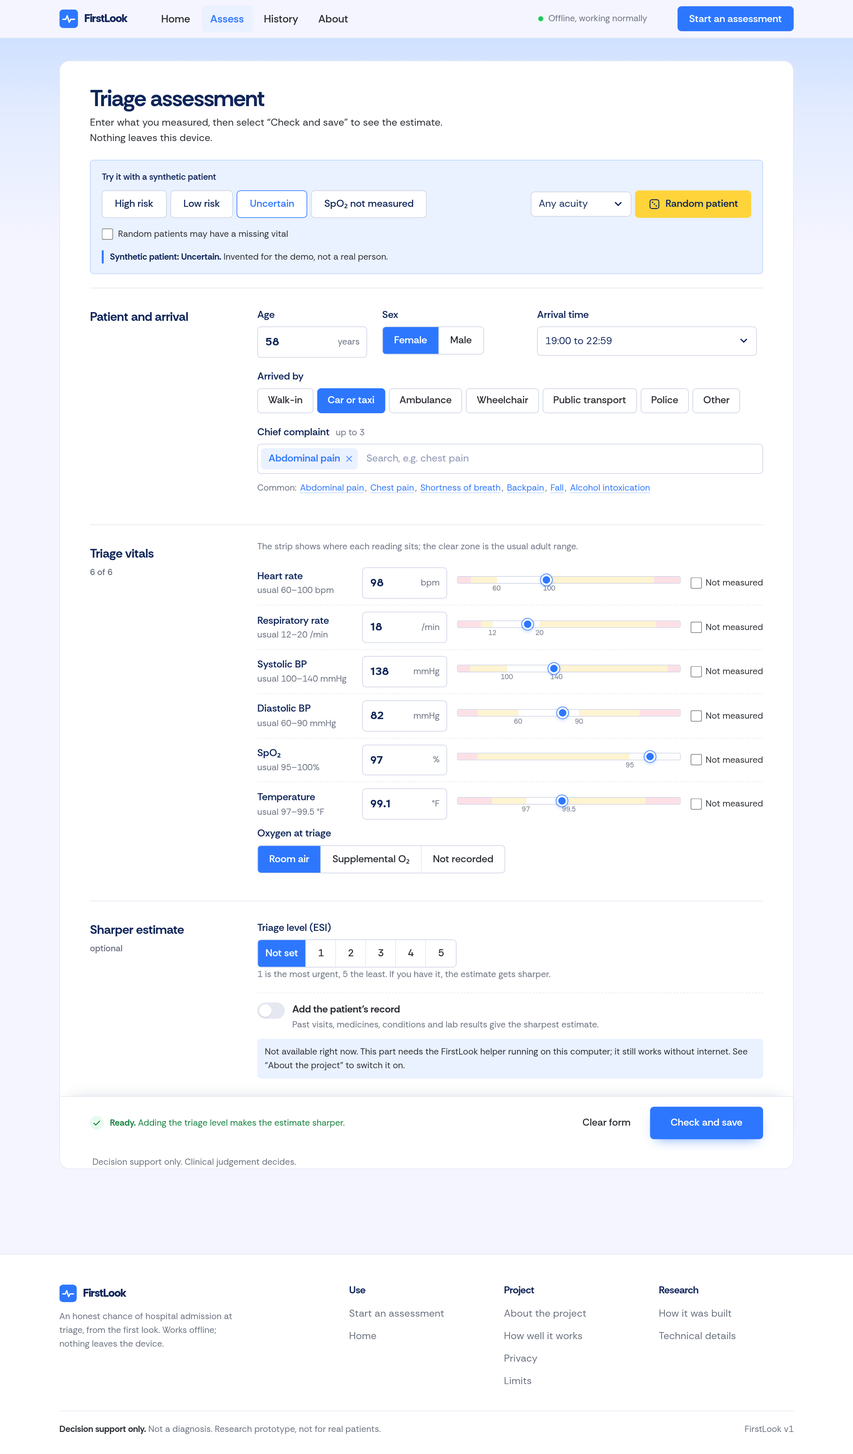
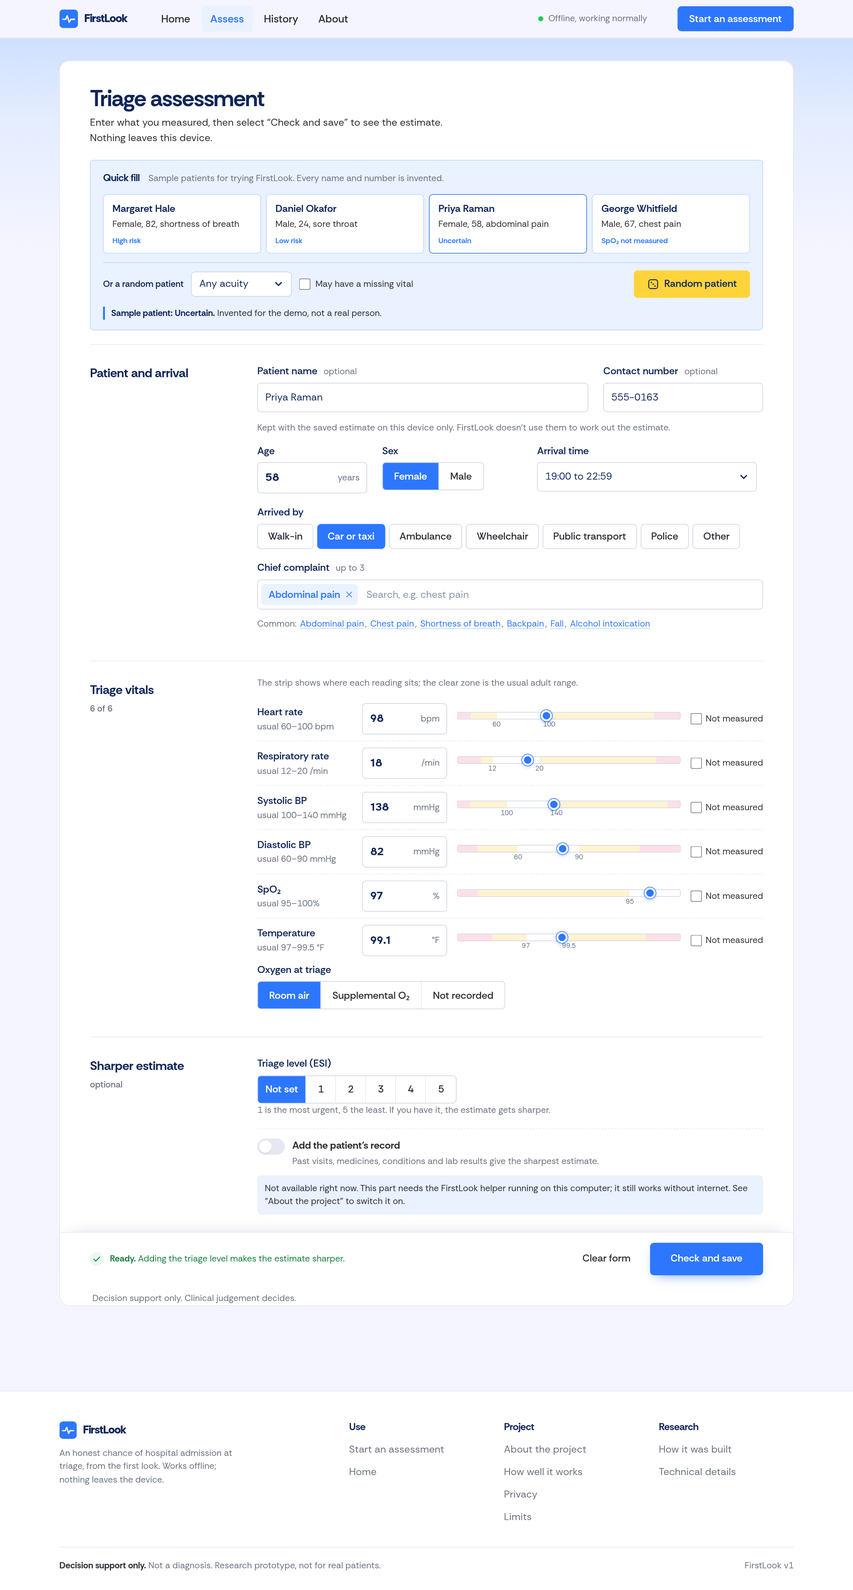
Patient name and contact; redesigned quick fill; readable complaint names
- Optional patient name and contact number (validated, never used by the
  model), shown on the result page, searchable in History and exported to CSV
  (formula-like text neutralised)
- Quick fill: sample patient cards with invented names; random patients get an
  invented name matching sex and a 555-01xx number
- 20 more complaint names made readable (shared runtime labels, re-exported)
- Tests for identity fields, CSV safety and random identities; figures updated

Claude-Session: https://claude.ai/code/session_01MqjK4GWpR6MpcbTz9AouDq

diff --git a/frontend/js/app.js b/frontend/js/app.js
@@ -132,7 +132,12 @@ const hPut = (list) => { try { localStorage.setItem(HKEY, JSON.stringify(list.sl
 const formSig = () => JSON.stringify(snapshot());
 const sig = () => JSON.stringify({ f: formSig(), note: $("hnote").value.trim() });
 function hBadge() { const n = hAll().length; $("hcount").textContent = n; $("hcount").hidden = !n; }
-function who(f) { return `${f.gender ?? "?"}, ${f.age ?? "?"}. ${f.complaints.map((c) => META.complaint_labels[c]).join(", ")}`; }
+function who(f, name = $("pname").value.trim()) { return `${name ? `${name}, ` : ""}${f.gender ?? "?"}, ${f.age ?? "?"}. ${f.complaints.map((c) => META.complaint_labels[c]).join(", ")}`; }
+/* Invented identities for the sample and random patients. 555-01xx numbers are reserved for fiction. */
+const SAMPLE_ID = { high: ["Margaret Hale", "555-0142"], low: ["Daniel Okafor", "555-0117"], uncertain: ["Priya Raman", "555-0163"], missing_spo2: ["George Whitfield", "555-0188"] };
+const FAKE_FIRST = { Female: ["Anna", "Rosa", "Leela", "Grace", "Nadia", "Helen", "Mei", "Sofia", "Joan", "Amara"], Male: ["Tom", "Arjun", "Samuel", "Luis", "Omar", "Peter", "Kenji", "Victor", "Hugo", "Ben"] };
+const FAKE_LAST = ["Carter", "Iyer", "Novak", "Mensah", "Lindqvist", "Moreau", "Tanaka", "Reyes", "Byrne", "Haddad", "Kowalski", "Fraser"];
+const fakeId = (seed, sex) => [`${FAKE_FIRST[sex ?? "Female"][seed % 10]} ${FAKE_LAST[Math.floor(seed / 10) % FAKE_LAST.length]}`, `555-01${String(seed % 100).padStart(2, "0")}`];
 function saveEstimate() {
   if (!last) return false;
   const s = sig(), list = hAll(), r = last.r;
@@ -144,7 +149,7 @@ function saveEstimate() {
     savedSig = s; saveState(); toast("Note saved."); return true;
   }
   const entry = { id: `${Date.now().toString(36)}${Math.random().toString(36).slice(2, 6)}`, at: Date.now(), p: r.probability, band: r.band, conformal: r.conformal,
-    slot: last.slot, note: $("hnote").value.trim(), who: who(last.f), age: last.f.age, sex: last.f.gender,
+    slot: last.slot, note: $("hnote").value.trim(), who: who(last.f), name: $("pname").value.trim(), phone: $("pphone").value.trim(), age: last.f.age, sex: last.f.gender,
     complaints: last.f.complaints.map((c) => META.complaint_labels[c]), top: r.contributions.slice(0, 3).map((d) => ({ label: d.label, up: d.value > 0 })), form: snapshot() };
   if (!hPut([entry, ...list])) { toast("Couldn’t save: this browser’s storage is full or switched off."); return false; }
   savedSig = s; savedId = entry.id; hBadge(); saveState(); toast("Saved to history.");
@@ -163,7 +168,7 @@ const dayLabel = (t) => { const d = new Date(t), today = new Date(); const k = (
 function renderHistory() {
   const all = hAll(), q = $("hist-q").value.trim().toLowerCase(), band = radio("hband") ?? "";
   const list = all.filter((e) => (!band || (band === "unsure" ? e.conformal === "uncertain" : e.band === band))
-    && (!q || `${e.who} ${e.note} ${e.age}`.toLowerCase().includes(q)));
+    && (!q || `${e.who} ${e.note} ${e.age} ${e.phone ?? ""}`.toLowerCase().includes(q)));
   $("hempty").hidden = all.length > 0; $("hist-tools").hidden = !all.length; $("hist-actions").hidden = !all.length;
   const n = (b) => all.filter((e) => e.band === b).length;
   $("hist-sum").textContent = all.length ? `${list.length === all.length ? all.length : `${list.length} of ${all.length}`} saved. ${n("High")} high, ${n("Medium")} medium, ${n("Low")} low.` : "";
@@ -174,7 +179,7 @@ function renderHistory() {
     html += `<li class="hitem" data-band="${esc(e.band)}">
       <div class="h-pct"><b class="num">${pct(e.p)}%</b><span>${esc(e.band)}</span></div>
       <div class="h-main"><p class="h-who">${esc(e.who)}</p>
-        <p class="h-meta"><time datetime="${new Date(e.at).toISOString()}">${new Date(e.at).toLocaleTimeString([], { hour: "2-digit", minute: "2-digit" })}</time><span class="${e.conformal === "uncertain" ? "unc" : ""}">${esc(vt)}</span><span>${esc(LEVEL[e.slot] ?? "")}</span></p>
+        <p class="h-meta"><time datetime="${new Date(e.at).toISOString()}">${new Date(e.at).toLocaleTimeString([], { hour: "2-digit", minute: "2-digit" })}</time>${e.phone ? `<span>${esc(e.phone)}</span>` : ""}<span class="${e.conformal === "uncertain" ? "unc" : ""}">${esc(vt)}</span><span>${esc(LEVEL[e.slot] ?? "")}</span></p>
         ${e.note ? `<p class="h-note">${esc(e.note)}</p>` : ""}
         ${e.top?.length ? `<p class="h-top">Moved most by ${e.top.map((t) => `${t.up ? "↑" : "↓"} ${esc(t.label)}`).join(", ")}</p>` : ""}</div>
       <div class="h-act"><button type="button" class="btn" data-open="${e.id}">Open</button><button type="button" class="btn quiet" data-del="${e.id}" aria-label="Delete the estimate for ${esc(e.who)}">Delete</button></div></li>`;
@@ -198,9 +203,11 @@ function historyUI() {
   });
   $("hist-clear").onclick = () => { const before = hAll(); hPut([]); hBadge(); renderHistory(); toast("History cleared.", () => { hPut(before); hBadge(); renderHistory(); }); };
   $("hist-csv").onclick = () => {
-    const cell = (v) => `"${String(v ?? "").replace(/"/g, '""')}"`;
-    const rows = [["saved_at", "note", "age", "sex", "complaints", "chance_percent", "risk", "confidence", "based_on"],
-      ...hAll().map((e) => [new Date(e.at).toISOString(), e.note, e.age, e.sex, e.complaints?.join("; "), pct(e.p), e.band, CONF[e.conformal]?.[1], LEVEL[e.slot]])];
+    const cell = (v) => { let s = String(v ?? ""); // a typed name like "=SUM(…)" must not run as a spreadsheet formula
+      if (/^[=@\t\r]/.test(s) || (/^[+-]/.test(s) && !/^[+-][\d\s().-]+$/.test(s))) s = `'${s}`;
+      return `"${s.replace(/"/g, '""')}"`; };
+    const rows = [["saved_at", "name", "contact", "note", "age", "sex", "complaints", "chance_percent", "risk", "confidence", "based_on"],
+      ...hAll().map((e) => [new Date(e.at).toISOString(), e.name, e.phone, e.note, e.age, e.sex, e.complaints?.join("; "), pct(e.p), e.band, CONF[e.conformal]?.[1], LEVEL[e.slot]])];
     const url = URL.createObjectURL(new Blob([rows.map((r) => r.map(cell).join(",")).join("\r\n")], { type: "text/csv" }));
     const a = document.createElement("a"); a.href = url; a.download = `firstlook-history-${new Date().toISOString().slice(0, 10)}.csv`; a.click();
     setTimeout(() => URL.revokeObjectURL(url), 1000); toast("Downloaded history as CSV.");
@@ -223,7 +230,10 @@ function build() {
   for (const [k] of VITAL) { $(k + "_nm").addEventListener("change", (e) => { setMissing(k, e.target.checked); touched.add(k); changed(true); }); strip(k); }
   const ex = $("examples");
   for (const [key, e] of Object.entries(META.examples)) {
-    const b = document.createElement("button"); b.type = "button"; b.className = "btn"; b.textContent = e.label; b.onclick = () => load(key); ex.appendChild(b);
+    const b = document.createElement("button"); b.type = "button"; b.className = "sample"; b.dataset.k = key; b.onclick = () => load(key);
+    const f = e.form, nm = SAMPLE_ID[key]?.[0] ?? e.label;
+    b.innerHTML = `<b>${esc(nm)}</b><span>${esc(f.gender)}, ${f.age}, ${esc(f.complaints.map((c) => META.complaint_labels[c]).join(", ").toLowerCase())}</span><i>${esc(e.label)}</i>`;
+    ex.appendChild(b);
   }
   $("cccommon").innerHTML = META.complaint_order.filter((c) => c !== "cc_other").slice(0, 6)
     .map((c) => `<button type="button" class="common" data-c="${c}">${esc(META.complaint_labels[c])}</button>`).join(", ");
@@ -232,7 +242,7 @@ function build() {
   const form = $("pform");
   form.addEventListener("input", (e) => { if (e.target.type === "number") strip(e.target.id); changed(false); });
   form.addEventListener("change", (e) => { if (e.target.type === "radio" || e.target.tagName === "SELECT") { touched.add(e.target.name); changed(true); } });
-  form.addEventListener("focusout", (e) => { if (e.target.type === "number") { touched.add(e.target.id); changed(true); } });
+  form.addEventListener("focusout", (e) => { if (e.target.type === "number" || e.target.type === "tel") { touched.add(e.target.id); changed(true); } });
   form.addEventListener("submit", (e) => { e.preventDefault(); check(); });
   $("usehist").addEventListener("change", () => { $("histbox").hidden = !$("usehist").checked; changed(true); });
   $("random").onclick = randomFill;
@@ -326,13 +336,14 @@ function chips() {
 /* ---------------------------------------------------------------- state */
 const histIds = () => (META.history ? [...META.history.fields.map((f) => hid(f.key)), ...(META.history.prev_dispo.length ? ["h_prevdispo"] : [])] : []);
 function snapshot() {
-  const v = { selected: [...selected], note: $("exnote").innerHTML, usehist: $("usehist").checked, age: $("age").value, hour: $("hour").value,
+  const v = { selected: [...selected], note: $("exnote").innerHTML, usehist: $("usehist").checked, pname: $("pname").value, pphone: $("pphone").value, age: $("age").value, hour: $("hour").value,
     gender: radio("gender"), arrival: radio("arrival"), esi: radio("esi"), o2dev: radio("o2dev") };
   for (const [k] of VITAL) { v[k] = $(k).value; v[k + "_nm"] = $(k + "_nm").checked; }
   for (const id of histIds()) v[id] = $(id).type === "checkbox" ? $(id).checked : $(id).value;
   return v;
 }
 function apply(v) {
+  $("pname").value = v.pname ?? ""; $("pphone").value = v.pphone ?? "";
   $("age").value = v.age ?? ""; if (v.hour) $("hour").value = v.hour;
   setRadio("gender", v.gender); setRadio("arrival", v.arrival ?? "Walk-in"); setRadio("esi", v.esi ?? ""); setRadio("o2dev", v.o2dev ?? "0");
   for (const [k] of VITAL) { setMissing(k, !!v[k + "_nm"]); if (!v[k + "_nm"]) $(k).value = v[k] ?? ""; strip(k); }
@@ -370,13 +381,15 @@ function fill(f) {
 }
 function load(key) {
   const e = META.examples[key];
-  withUndo(`Loaded “${e.label}”.`, () => { fill(e.form); note(`<b>Synthetic patient: ${esc(e.label)}.</b> Invented for the demo, not a real person.`); });
+  const [nm, ph] = SAMPLE_ID[key] ?? ["", ""];
+  withUndo(`Loaded ${nm || `“${e.label}”`}.`, () => { fill(e.form); $("pname").value = nm; $("pphone").value = ph; note(`<b>Sample patient: ${esc(e.label)}.</b> Invented for the demo, not a real person.`); });
 }
 function randomFill() {
   const seed = crypto.getRandomValues(new Uint32Array(1))[0] % 100000, esiOn = radio("esi") !== "";
   const { form, meta } = M.randomPatient(seed, $("acuity").value || null, $("rmiss").checked, META);
   withUndo("Loaded a random patient.", () => {
     fill(form); if (esiOn) setRadio("esi", meta.esi);
+    [$("pname").value, $("pphone").value] = fakeId(seed, form.gender);
     note(`<b>Random synthetic patient, ${meta.acuity} acuity</b> (seed ${seed}). Invented for the demo, not a real person.`);
   });
 }
@@ -406,7 +419,9 @@ function findings(f) {
     const v = f[h.key];
     if (h.kind === "count" && v !== null && (v < 0 || !Number.isInteger(v) || v > 500)) out.push({ field: hid(h.key), level: "error", msg: "Enter a whole number from 0 to 500." });
   }
-  const order = ["age", "gender", "complaints", ...VITAL.map((v) => v[0])];
+  const ph = $("pphone").value.trim();
+  if (ph && !/^\+?[\d\s()-]{6,20}$/.test(ph)) out.push({ field: "pphone", level: "error", msg: "Enter a phone number using digits, spaces, + or -." });
+  const order = ["pname", "pphone", "age", "gender", "complaints", ...VITAL.map((v) => v[0])];
   return out.sort((a, b) => (order.indexOf(a.field) + 1 || 99) - (order.indexOf(b.field) + 1 || 99));
 }
 const INPUT = { complaints: "ccsearch" };
@@ -414,7 +429,7 @@ const focusField = (field) => {
   const el = field === "gender" ? document.querySelector('input[name="gender"]') : $(INPUT[field] ?? field);
   el?.focus({ preventScroll: true }); el?.scrollIntoView({ block: "center", behavior: reduced ? "auto" : "smooth" });
 };
-const fieldName = (field) => ({ age: "Age", gender: "Sex", complaints: "Chief complaint" })[field] ?? VITAL.find((v) => v[0] === field)?.[1]
+const fieldName = (field) => ({ pname: "Patient name", pphone: "Contact number", age: "Age", gender: "Sex", complaints: "Chief complaint" })[field] ?? VITAL.find((v) => v[0] === field)?.[1]
   ?? META.history?.fields.find((h) => hid(h.key) === field)?.label ?? field;
 
 /** Inline messages: errors and warnings once a field is touched (and cleared the moment it is fixed); blanks only after "Check". */
@@ -524,7 +539,7 @@ function renderInputs() {
   const f = last.f, arr = document.querySelector('input[name="arrival"]:checked')?.parentElement.textContent.trim();
   const hour = $("hour").selectedOptions[0]?.textContent;
   $("res-who").textContent = `${who(f)}. ${arr ? `Arrived by ${arr.toLowerCase()}, ` : ""}${hour ?? ""}.`;
-  const rows = [["Age", `${f.age} years`], ["Sex", f.gender], ["Arrived by", arr], ["Arrival time", hour],
+  const rows = [["Name", $("pname").value.trim() || "Not given"], ["Contact", $("pphone").value.trim() || "Not given"], ["Age", `${f.age} years`], ["Sex", f.gender], ["Arrived by", arr], ["Arrival time", hour],
     ["Chief complaint", f.complaints.map((c) => META.complaint_labels[c]).join(", ")],
     ...VITAL.map(([k, name, unit]) => [name, $(k + "_nm").checked ? "Not measured" : `${$(k).value}${unit ? NB + unit : ""}`]),
     ["Triage level (ESI)", f.esi ? String(f.esi) : "Not set"], ["Patient record", $("usehist").checked && SERVER ? "Added" : "Not added"]];

diff --git a/frontend/index.html b/frontend/index.html
@@ -139,7 +139,7 @@
   </div>
   <div class="hist-tools" id="hist-tools">
     <label class="sr-only" for="hist-q">Search saved estimates</label>
-    <input id="hist-q" type="text" placeholder="Search by complaint, age or note">
+    <input id="hist-q" type="text" placeholder="Search by name, phone, complaint or note">
     <div class="seg small" id="hist-band" role="radiogroup" aria-label="Filter by risk">
       <label><input type="radio" name="hband" value="" checked>All</label><label><input type="radio" name="hband" value="High">High</label><label><input type="radio" name="hband" value="Medium">Medium</label><label><input type="radio" name="hband" value="Low">Low</label><label><input type="radio" name="hband" value="unsure">Unsure</label>
     </div>
@@ -162,22 +162,33 @@
       <p class="lede">Enter what you measured, then select “Check and save” to see the estimate. Nothing leaves this device.</p>
     </div>
 
-    <div class="quick" aria-labelledby="quick-l">
-      <p id="quick-l" class="quick-l">Try it with a synthetic patient</p>
-      <div class="quick-row">
-        <div class="btnset" id="examples"></div>
-        <div class="rand">
-          <label class="sr-only" for="acuity">Acuity of the random patient</label>
-          <select id="acuity" class="compact"><option value="">Any acuity</option><option value="low">Low acuity</option><option value="medium">Medium acuity</option><option value="high">High acuity</option></select>
-          <button type="button" class="btn sun" id="random"><svg class="ic" aria-hidden="true"><use href="#i-dice"/></svg>Random patient</button>
-        </div>
+    <section class="quick" aria-labelledby="quick-l">
+      <div class="quick-head">
+        <h2 id="quick-l" class="quick-l">Quick fill</h2>
+        <p class="hint">Sample patients for trying FirstLook. Every name and number is invented.</p>
       </div>
-      <label class="tick small"><input type="checkbox" id="rmiss">Random patients may have a missing vital</label>
+      <div class="samples" id="examples"></div>
+      <div class="rand-row">
+        <span class="rand-l">Or a random patient</span>
+        <label class="sr-only" for="acuity">Acuity of the random patient</label>
+        <select id="acuity" class="compact"><option value="">Any acuity</option><option value="low">Low acuity</option><option value="medium">Medium acuity</option><option value="high">High acuity</option></select>
+        <label class="tick small"><input type="checkbox" id="rmiss">May have a missing vital</label>
+        <button type="button" class="btn sun" id="random"><svg class="ic" aria-hidden="true"><use href="#i-dice"/></svg>Random patient</button>
+      </div>
       <p class="synthetic" id="exnote" hidden></p>
-    </div>
+    </section>
 
     <fieldset class="part">
       <legend>Patient and arrival</legend>
+      <div class="ident">
+        <div class="f"><label class="l" for="pname">Patient name <span class="opt">optional</span></label>
+          <input id="pname" name="pname" type="text" maxlength="60" autocomplete="off" spellcheck="false" aria-describedby="err-pname">
+          <p class="msg" id="err-pname" hidden></p></div>
+        <div class="f"><label class="l" for="pphone">Contact number <span class="opt">optional</span></label>
+          <input id="pphone" name="pphone" type="tel" inputmode="tel" maxlength="20" autocomplete="off" aria-describedby="pphone-help err-pphone">
+          <p class="msg" id="err-pphone" hidden></p></div>
+        <p class="hint ident-help" id="pphone-help">Kept with the saved estimate on this device only. FirstLook doesn’t use them to work out the estimate.</p>
+      </div>
       <div class="cols">
         <div class="f"><label class="l" for="age">Age</label>
           <div class="unit-in"><input id="age" name="age" type="number" inputmode="numeric" min="18" max="110" placeholder="54" aria-describedby="err-age"><span aria-hidden="true">years</span></div>

diff --git a/frontend/css/app.css b/frontend/css/app.css
@@ -78,7 +78,25 @@ main { outline: none; background: linear-gradient(180deg, var(--sky) 0, #e3ecff 
 .sheet-head h1 { font-size: var(--step-3); }
 .lede { color: var(--ink-2); margin-top: 6px; max-width: 60ch; }
 
-.quick { margin: 22px 0 6px; padding: 16px 18px; background: var(--brand-soft); border: 1px solid var(--brand-line); border-radius: var(--r-s); display: grid; gap: 10px; }
+.quick { margin: 22px 0 6px; padding: 18px 20px 16px; background: var(--brand-soft); border: 1px solid var(--brand-line); border-radius: var(--r-s); display: grid; gap: 14px; }
+.quick-head { display: flex; align-items: baseline; gap: 6px 14px; flex-wrap: wrap; }
+.quick-head .quick-l { font-size: var(--step-0); font-weight: 700; }
+.samples { display: grid; grid-template-columns: repeat(auto-fit, minmax(190px, 1fr)); gap: 8px; }
+@media (max-width: 640px) { .samples { grid-template-columns: 1fr 1fr; } .sample { padding: 8px 10px; } }
+.sample { display: grid; gap: 2px; text-align: left; padding: 10px 12px 10px 14px; background: var(--sheet); border: 1px solid var(--brand-line); border-radius: var(--r-s);
+  font: inherit; color: var(--ink); cursor: pointer; position: relative; transition: border-color .15s, box-shadow .15s; }
+.sample:hover { border-color: var(--brand); }
+.sample:focus-visible { outline: 2px solid var(--brand); outline-offset: 2px; }
+.sample b { font-weight: 650; }
+.sample span { font-size: var(--step--1); color: var(--ink-2); }
+.sample i { font-style: normal; font-size: 12px; font-weight: 650; color: var(--brand); margin-top: 4px; }
+.rand-row { display: flex; flex-wrap: wrap; align-items: center; gap: 8px 12px; padding-top: 12px; border-top: 1px solid var(--brand-line); }
+.rand-l { font-size: var(--step--1); font-weight: 600; color: var(--ink); }
+.rand-row .btn { margin-left: auto; }
+.ident { display: grid; grid-template-columns: minmax(0, 1fr) minmax(0, 16rem); gap: 0 24px; margin-bottom: 14px; }
+.ident input { width: 100%; }
+.ident-help { grid-column: 1 / -1; margin-top: -4px; }
+.opt { font-weight: 400; font-size: var(--step--1); color: var(--muted); margin-left: 6px; }
 .quick-l { color: var(--ink); font-weight: 600; font-size: var(--step--1); }
 .quick-row { display: flex; flex-wrap: wrap; gap: 8px 16px; align-items: center; justify-content: space-between; }
 .btnset, .rand { display: flex; flex-wrap: wrap; gap: 6px; align-items: center; }
@@ -99,7 +117,7 @@ main { outline: none; background: linear-gradient(180deg, var(--sky) 0, #e3ecff 
 .l .hint { margin-left: 6px; }
 
 /* inputs */
-input[type=number], input[type=text], select {
+input[type=number], input[type=text], input[type=tel], select {
   font: inherit; font-size: max(16px, 1rem); color: var(--ink); width: 100%; min-height: 46px;
   padding: 10px 12px; background: var(--sheet); border: 1.5px solid var(--rule-2); border-radius: var(--r-s);
   transition: border-color .15s, box-shadow .15s;
@@ -556,6 +574,8 @@ td .sw { display: inline-block; width: 10px; height: 10px; border-radius: 2px; m
   .meta { grid-template-columns: repeat(2, auto); }
   .pct b { font-size: 3.2rem; }
   .quick-row { flex-direction: column; align-items: stretch; }
+  .ident { grid-template-columns: minmax(0, 1fr); }
+  .rand-row .btn { margin-left: 0; width: 100%; }
 }
 @media (prefers-reduced-motion: reduce) { *, *::before, *::after { transition: none !important; animation: none !important; } }
 @media print { .top, .quick, .form-foot, .peek, .toast, .foot { display: none !important; } .workspace { grid-template-columns: 1fr 1fr; } .panel { position: static; } }

diff --git a/frontend/sw.js b/frontend/sw.js
@@ -1,6 +1,6 @@
 /* FirstLook service worker: cache-first for the app shell, everything local. Bump CACHE when assets change.
    api/ requests (the optional local backend) always go to the network and are never cached. */
-const CACHE = "firstlook-v24";
+const CACHE = "firstlook-v26";
 const ASSETS = ["./", "index.html", "css/app.css", "js/model.js", "js/charts.js", "js/app.js", "data/models.json", "data/dashboard.json",
   "manifest.webmanifest", "icon.svg",
   "fonts/atkinson-next-latin.woff2", "fonts/atkinson-next-latin-ext.woff2",

diff --git a/tests/test_pwa_ux.py b/tests/test_pwa_ux.py
@@ -110,7 +110,7 @@ def test_assess_and_result_are_separate_pages(page):
     assert pct(page) == 44 and page.inner_text("#conftitle").startswith("Unsure")
     assert "44% chance of admission" in page.title()
     assert page.get_attribute("nav a[data-p=assess]", "aria-current") == "page"
-    assert page.inner_text("#res-who").startswith("Female, 58. Abdominal pain")
+    assert page.inner_text("#res-who").startswith("Priya Raman, Female, 58. Abdominal pain")
     page.click("#res-edit"); page.wait_for_selector("#assess:not([hidden])")
     page.fill("#age", "90"); show(page)
     assert pct(page) != 44
@@ -316,3 +316,33 @@ def test_history_delete_clear_undo_csv_and_persistence(page):
     page.click("#hist-clear")
     assert items.count() == 0 and page.is_visible("#hempty") and page.is_hidden("#hcount")
     page.click("#undo"); assert items.count() == 2
+
+
+# ---------- patient name and contact ----------
+
+def test_name_and_contact_are_optional_validated_and_saved(page):
+    example(page, "High risk")  # sample patients come with an invented name and a 555-01xx number
+    assert page.input_value("#pname") == "Margaret Hale" and page.input_value("#pphone") == "555-0142"
+    page.fill("#pname", ""); page.fill("#pphone", "")
+    page.wait_for_selector("#needs[data-state=ready]")  # neither is required
+    page.fill("#pphone", "call me"); page.focus("#age")
+    assert page.is_visible("#err-pphone") and page.get_attribute("#needs", "data-state") == "fix"
+    page.fill("#pname", "=HYPERLINK(1)"); page.fill("#pphone", "+91 98450 00000"); show(page)
+    assert "=HYPERLINK(1), Female, 82" in page.inner_text("#res-who")
+    page.click("nav a[data-p=history]"); page.wait_for_selector("#hlist .hitem")
+    page.fill("#hist-q", "98450"); assert page.locator("#hlist .hitem").count() == 1
+    with page.expect_download() as dl:
+        page.click("#hist-csv")
+    rows = open(dl.value.path(), encoding="utf-8").read().splitlines()
+    assert rows[0].startswith('"saved_at","name","contact"')
+    assert '"\'=HYPERLINK(1)","+91 98450 00000"' in rows[1]  # a typed formula is neutralised; a phone number is not
+
+
+def test_random_patient_gets_an_invented_identity_matching_sex(page):
+    page.click("#random"); page.wait_for_selector("#needs[data-state=ready]")
+    sex = page.evaluate("document.querySelector('input[name=gender]:checked').value")
+    name, phone = page.input_value("#pname"), page.input_value("#pphone")
+    assert name and phone.startswith("555-01")
+    first = name.split()[0]
+    assert first in (["Anna", "Rosa", "Leela", "Grace", "Nadia", "Helen", "Mei", "Sofia", "Joan", "Amara"] if sex == "Female"
+                     else ["Tom", "Arjun", "Samuel", "Luis", "Omar", "Peter", "Kenji", "Victor", "Hugo", "Ben"])

diff --git a/src/edge/runtime.py b/src/edge/runtime.py
@@ -67,6 +67,14 @@ CC_LABEL = {
     "urinaryretention": "Urinary retention", "urinarytractinfection": "Urinary tract infection", "vaginalbleeding": "Vaginal bleeding",
     "vaginaldischarge": "Vaginal discharge", "vaginalpain": "Vaginal pain", "woundcheck": "Wound check", "woundinfection": "Wound infection",
     "wristinjury": "Wrist injury",
+    "decreasedbloodsugar-symptomatic": "Low blood sugar (with symptoms)", "drug/alcoholassessment": "Drug or alcohol assessment",
+    "elevatedbloodsugar-nosymptoms": "High blood sugar (no symptoms)", "elevatedbloodsugar-symptomatic": "High blood sugar (with symptoms)",
+    "fever-75yearsorolder": "Fever (75 or older)", "fever-9weeksto74years": "Fever (age 9 weeks to 74)",
+    "follow-upcellulitis": "Cellulitis follow-up", "headache-recurrentorknowndxmigraines": "Headache (recurrent or known migraine)",
+    "headachere-evaluation": "Headache re-evaluation", "overdose-accidental": "Overdose (accidental)", "overdose-intentional": "Overdose (intentional)",
+    "post-opproblem": "Post-op problem", "seizure-newonset": "Seizure (new onset)", "seizure-priorhxof": "Seizure (known history)",
+    "suture/stapleremoval": "Suture or staple removal", "withdrawal-alcohol": "Alcohol withdrawal", "woundre-evaluation": "Wound re-evaluation",
+    "bleeding/bruising": "Bleeding or bruising",
 }
 
 
